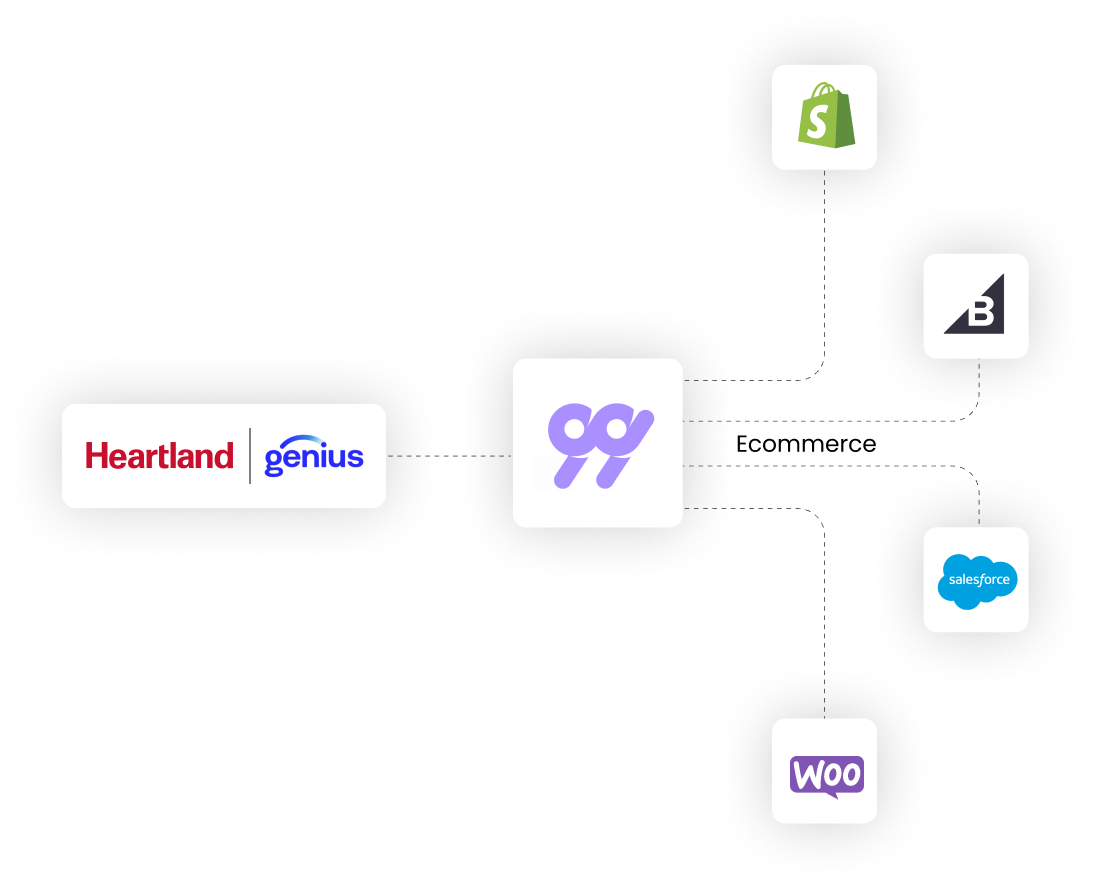
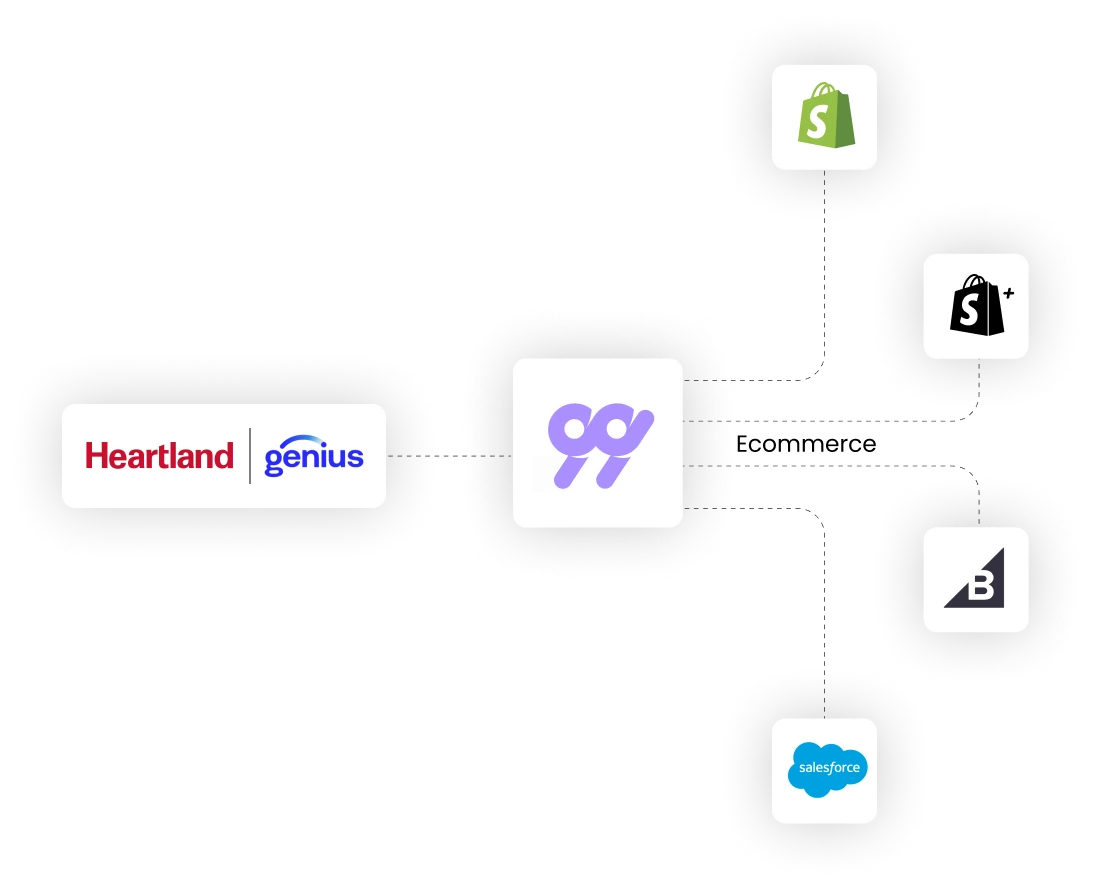
changes in review section

diff --git a/src/config/Integration.jsx b/src/config/Integration.jsx
@@ -7,6 +7,20 @@ export const Ecommerce = [
   alt:"99minds-Shopify Integration"
 },
 {
+  image: '/integrations/Shopifyplus-icon.svg',
+  title: 'Shopifyplus',
+  desc: "A leading e-commerce platform that seamlessly integrates with 99minds for gift card sales.  You can leverage 99minds to offer advanced features on Shopify, including gift card scheduling, loyalty program integration, and promotional gift cards, creating a more dynamic gift card experience for your customers.",
+  url: "/integrations/shopifyplus",
+  alt:"99minds-Shopifyplus Integration"
+},
+{
+  image: '/integrations/shopifypos.svg',
+  title: 'Shopify Pos',
+  desc: "A leading e-commerce platform that seamlessly integrates with 99minds for gift card sales.  You can leverage 99minds to offer advanced features on Shopify, including gift card scheduling, loyalty program integration, and promotional gift cards, creating a more dynamic gift card experience for your customers.",
+  url: "/integrations/shopify",
+  alt:"99minds-Shopify Integration"
+},
+{
   image: '/integrations/BigCommerce-icon.svg',
   title: 'BigCommerce',
   desc: " Another popular e-commerce platform that integrates with 99minds for gift card functionality.  99minds empowers you to add advanced features to your BigCommerce store, such as scheduling delivery of gift cards, rewarding gift card purchases with loyalty points, and offering promotional gift cards to drive sales.",

diff --git a/src/components/heros/HeroIndex.jsx b/src/components/heros/HeroIndex.jsx
@@ -28,7 +28,7 @@ function Hero({ title, title2, highlight, description }) {
     <section>
       <div className="relative max-w-7xl px-0 md:px-12 lg:px-16 mx-auto py-4 lg:py-6">
         <section className="text-center pt-20 lg:pt-28">
-          <h1 className="py-4 mt-4 mx-auto text-center flex text-xl sm:text-2xl md:text-3xl lg:text-4xl font-semibold leading-snug md:max-w-3xl">
+          <h1 className="py-4 mt-4 mx-auto justify-center text-center flex text-xl sm:text-2xl md:text-3xl lg:text-4xl font-semibold leading-snug md:max-w-3xl">
             {title}
             <span
               className="text-[#EF5A3C] ml-2"
@@ -43,7 +43,7 @@ function Hero({ title, title2, highlight, description }) {
           </p>
 
           <div
-            className="flex flex-wrap items-center justify-center gap-4 pb-8"
+            className="flex flex-wrap items-center justify-center gap-4 px-8"
             role="group"
           > 
             <ButtonsGrid />

diff --git a/src/components/buttons/getStarted2.jsx b/src/components/buttons/getStarted2.jsx
@@ -15,12 +15,12 @@ export default function ButtonsGrid() {
       <p>
         <span className="flex items-center justify-center">
             <img src="/5-star.svg" alt="5 stars" className="w-24 h-auto mr-2" />
-            Rated 5 Stars on Major Platforms
+            5 Star Reviews
         </span>
       </p>
 
       {/* Buttons Grid */}
-      <div className="flex gap-6 justify-center mx-auto max-w-4xl p-2">
+      <div className="flex gap-4 justify-center mx-auto max-w-4xl py-3">
         {buttonConfig.map((btn, index) => (
           <button
             key={index}
@@ -30,7 +30,7 @@ export default function ButtonsGrid() {
               <img
                 src={btn.logo}
                 alt={`${btn.label} logo`}
-                className="h-8 w-auto pt-2"
+                className="h-10 w-[133px] rounded-xl w-auto"
               />
           </button>
         ))}

diff --git a/src/config/buttonConfig.js b/src/config/buttonConfig.js
@@ -2,22 +2,22 @@ const buttonConfig = [
   {
     label: "Shopify",
     url: "https://apps.shopify.com/99minds-gift-card-loyalty-referral",
-    logo: "/assets/shopify/Shopify-logo.svg",
+    logo: "/assets/homepage/Shopify-l.svg",
   },
   {
     label: "Shopify Plus",
     url: "https://apps.shopify.com/99minds-gift-card-loyalty-referral",
-    logo: "/logos/shopify-plus-logo1.svg",
+    logo: "/assets/homepage/Shopifyplus-l.svg",
   },
   {
     label: "BigCommerce",
     url: "https://www.bigcommerce.com/apps/99minds-gift-card",
-    logo: "/integrations/BigC-full-logo.svg",
+    logo: "/assets/homepage/Bcom-l.svg",
   },
   {
     label: "Salesforce",
     url: "https://appexchange.salesforce.com/appxListingDetail?listingId=a0N4V00000J6Jc3UAF",
-    logo: "/logos/Salesforce-logo2.svg",
+    logo: "/assets/homepage/Salesforce-l.svg",
   },
 ];
 

diff --git a/src/components/features/FeartureTabs.jsx b/src/components/features/FeartureTabs.jsx
@@ -35,7 +35,7 @@ const TabbedImages = () => {
       <div className="relative max-w-7xl px-8 md:px-12 lg:px-0 mx-auto py-5 lg:py-0 md:py-0">
         <div className="flex flex-col-reverse md:flex-col justify-center items-center md:items-stretch space-y-6 md:space-y-4 md:space-y-reverse">
           {/* Tabs (visible only on laptop and above) */}
-          <div className="relative hidden lg:flex  items-center justify-center w-full gap-4  mx-auto py-8 mt-10">
+          <div className="relative hidden lg:flex  items-center justify-center w-full gap-4  mx-auto py-8 mt-0">
             {tabs.map((tab, index) => (
               <button
                 key={tab.id}
